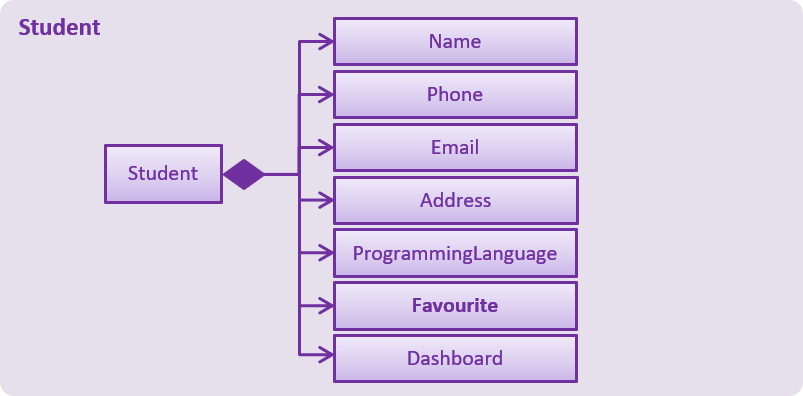
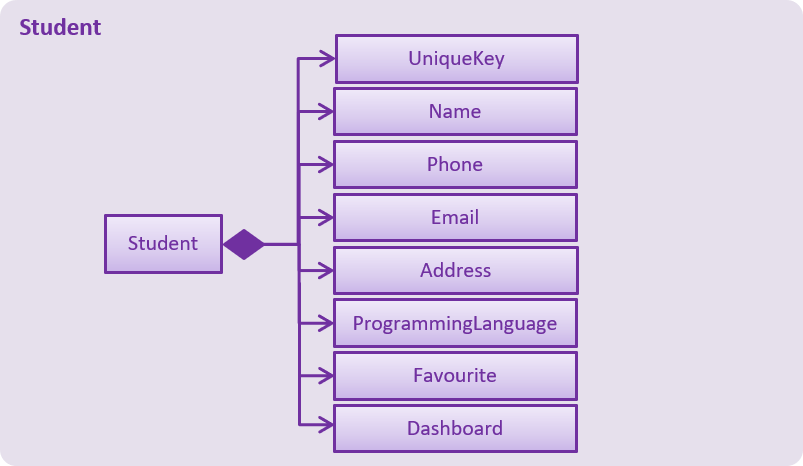
Rebuild pages at 1be7fd77ae190357ab070ccab8c4ad3ecd14ff4b

Changed region(s): [[0.1245, 0.0303, 0.7472, 0.9697], [0.0, 0.0303, 0.1245, 0.0909]]

diff --git a/DeveloperGuide.html b/DeveloperGuide.html
@@ -50,9 +50,10 @@
 <li><a href="#location-feature">3.4. Location feature</a></li>
 <li><a href="#programming-language-feature">3.5. Programming Language Feature</a></li>
 <li><a href="#schedule-feature">3.6. Schedule feature</a></li>
-<li><a href="#dashboard-feature">3.7. Dashboard feature</a></li>
-<li><a href="#logging">3.8. Logging</a></li>
-<li><a href="#Implementation-Configuration">3.9. Configuration</a></li>
+<li><a href="#google-service-integration">3.7. Google Service Integration</a></li>
+<li><a href="#dashboard-feature">3.8. Dashboard feature</a></li>
+<li><a href="#logging">3.9. Logging</a></li>
+<li><a href="#Implementation-Configuration">3.10. Configuration</a></li>
 </ul>
 </li>
 <li><a href="#documentation">4. Documentation</a>
@@ -1195,22 +1196,25 @@ a <code>Student</code> object with attributes including <code>ProgrammingLanguag
 </div>
 <div class="imageblock">
 <div class="content">
-<img src="images/ScheduleClassDiagram.png" alt="ScheduleClassDiagram" width="800">
+<img src="images/LessonClassDiagram.png" alt="LessonClassDiagram" width="800">
 </div>
 </div>
 <div class="paragraph">
-<p>A <code>Schedule</code> is a list of <code>Lessons</code>. A <code>Lesson</code> has a <code>Student</code> attribute, a <code>Day</code> attribute, a starting <code>TIME START_TIME</code> and an ending <code>TIME END_TIME</code> attribute</p>
+<p>A <code>Schedule</code> is a list of <code>Lessons</code>. A <code>Lesson</code> has a <code>UniqueKey</code> attribute, a <code>Day</code> attribute, a starting <code>TIME START_TIME</code> and an ending <code>TIME END_TIME</code> attribute</p>
 </div>
 <div class="ulist">
 <ul>
 <li>
-<p>A <code>Lesson</code> object called <code>newLesson</code> will be created by <code>ModelManager.addLesson(Student, Day, Time START_TIME, Time END_TIME)</code>, which is implemented as such:</p>
+<p>Students have a unique UniqueKey field, which we will now use in Lesson to create a relation to Student objects.</p>
+</li>
+<li>
+<p>A <code>Lesson</code> object called <code>newLesson</code> will be created by <code>ModelManager.addLesson(UniqueKey key, Day day, Time startTime, Time endTime)</code>, which is implemented as such:</p>
 </li>
 </ul>
 </div>
 <div class="listingblock">
 <div class="content">
-<pre>    public void addLesson(Student studentToAddLesson, Day day, Time startTime, Time endTime)
+<pre>    public void addLesson(UniqueKey key, Day day, Time startTime, Time endTime)
             throws DuplicateLessonException, StudentNotFoundException, InvalidLessonTimeSlotException {
         //Check for Duplicate Lesson, StudentNotFound, invalid input ime
 
@@ -1219,7 +1223,8 @@ a <code>Student</code> object with attributes including <code>ProgrammingLanguag
 </div>
 </div>
 <div class="paragraph">
-<p>The student will be selected by the Index of the last seen list of students. A new <code>Lesson</code> will now be added for that student at the specific <code>Day</code>, <code>START_TIME</code> and <code>END_TIME</code>.</p>
+<p>The student will be selected by the Index of the last seen list of students.
+The UniqueKey is retrieved from the Student. A new <code>Lesson</code> will now be added for that student at the specific <code>Day</code>, <code>startTime</code> and <code>endTime</code>, associated with the Student by the <code>key</code></p>
 </div>
 <div class="admonitionblock note">
 <table>
@@ -1272,9 +1277,53 @@ If you have a future implementation that requires the addition of a new attribut
 </div>
 </div>
 <div class="sect2">
-<h3 id="dashboard-feature"><a class="link" href="#dashboard-feature">3.7. Dashboard feature</a></h3>
+<h3 id="google-service-integration"><a class="link" href="#google-service-integration">3.7. Google Service Integration</a></h3>
+<div class="paragraph">
+<p>To sync with Google Contacts and Google Calendar, a <code>GServiceManager</code> class is implemented to handle the 2 services.
+<code>GServiceManager</code> contains a <code>GContactsService</code> and <code>GCalendarService</code> objects. <code>GServiceManager.synchronize</code> calls <code>GContactsService.synchronize</code> and
+<code>GCalendarService.synchronize</code></p>
+</div>
 <div class="sect3">
-<h4 id="current-implementation-6"><a class="link" href="#current-implementation-6">3.7.1. Current Implementation</a></h4>
+<h4 id="design-considerations-6"><a class="link" href="#design-considerations-6">3.7.1. Design Considerations</a></h4>
+<div class="sect4">
+<h5 id="aspect-implementation-of-code-gservicemanager-code"><a class="link" href="#aspect-implementation-of-code-gservicemanager-code">Aspect: Implementation of <code>GServiceManager</code></a></h5>
+<div class="ulist">
+<ul>
+<li>
+<p><strong>Alternative 1 (current choice)</strong>: Separate out 2 Google Services into two classes</p>
+<div class="ulist">
+<ul>
+<li>
+<p>Pro: Less coupling</p>
+</li>
+<li>
+<p>Con: More files and more code</p>
+</li>
+</ul>
+</div>
+</li>
+<li>
+<p><strong>Alternative 2</strong>: All services are in <code>GServiceManager</code> class. Synchronize runs the upload for both Contacts and Calendar classes.</p>
+<div class="ulist">
+<ul>
+<li>
+<p>Pro: Fewer files and code to read</p>
+</li>
+<li>
+<p>Con: More coupling</p>
+</li>
+</ul>
+</div>
+</li>
+</ul>
+</div>
+</div>
+</div>
+</div>
+<div class="sect2">
+<h3 id="dashboard-feature"><a class="link" href="#dashboard-feature">3.8. Dashboard feature</a></h3>
+<div class="sect3">
+<h4 id="current-implementation-6"><a class="link" href="#current-implementation-6">3.8.1. Current Implementation</a></h4>
 <div class="paragraph">
 <p>To have a dashboard for each student, an association with a new <code>Dashboard</code> class is added to the <code>Student</code> class. We have also created new classes associated with the <code>Dashboard</code> class to facilitate the different capabilities of the dashboard.
 The following diagram shows the structure of the classes that facilitate the dashboard feature:</p>
@@ -1352,7 +1401,7 @@ A common implementation for commands that modify the dashboard (e.g. <code>AddMi
 </div>
 </div>
 <div class="sect3">
-<h4 id="design-considerations-6"><a class="link" href="#design-considerations-6">3.7.2. Design Considerations</a></h4>
+<h4 id="design-considerations-7"><a class="link" href="#design-considerations-7">3.8.2. Design Considerations</a></h4>
 <div class="sect4">
 <h5 id="aspect-data-structure-to-support-the-dashboard-feature"><a class="link" href="#aspect-data-structure-to-support-the-dashboard-feature">Aspect: Data structure to support the dashboard feature</a></h5>
 <div class="ulist">
@@ -1389,14 +1438,14 @@ A common implementation for commands that modify the dashboard (e.g. <code>AddMi
 </div>
 </div>
 <div class="sect2">
-<h3 id="logging"><a class="link" href="#logging">3.8. Logging</a></h3>
+<h3 id="logging"><a class="link" href="#logging">3.9. Logging</a></h3>
 <div class="paragraph">
 <p>We are using <code>java.util.logging</code> package for logging. The <code>LogsCenter</code> class is used to manage the logging levels and logging destinations.</p>
 </div>
 <div class="ulist">
 <ul>
 <li>
-<p>The logging level can be controlled using the <code>logLevel</code> setting in the configuration file (See <a href="#Implementation-Configuration">Section 3.9, &#8220;Configuration&#8221;</a>)</p>
+<p>The logging level can be controlled using the <code>logLevel</code> setting in the configuration file (See <a href="#Implementation-Configuration">Section 3.10, &#8220;Configuration&#8221;</a>)</p>
 </li>
 <li>
 <p>The <code>Logger</code> for a class can be obtained using <code>LogsCenter.getLogger(Class)</code> which will log messages according to the specified logging level</p>
@@ -1427,7 +1476,7 @@ A common implementation for commands that modify the dashboard (e.g. <code>AddMi
 </div>
 </div>
 <div class="sect2">
-<h3 id="Implementation-Configuration"><a class="link" href="#Implementation-Configuration">3.9. Configuration</a></h3>
+<h3 id="Implementation-Configuration"><a class="link" href="#Implementation-Configuration">3.10. Configuration</a></h3>
 <div class="paragraph">
 <p>Certain properties of the application can be controlled (e.g App name, logging level) through the configuration file (default: <code>config.json</code>).</p>
 </div>
@@ -3078,7 +3127,7 @@ Expected: Similar to previous.</p>
 </div>
 <div id="footer">
 <div id="footer-text">
-Last updated 2018-04-06 04:30:51 UTC
+Last updated 2018-04-06 05:39:56 UTC
 </div>
 </div>
 </body>

diff --git a/UserGuide.html b/UserGuide.html
@@ -52,10 +52,11 @@
 <li><a href="#undoing-previous-command-code-undo-code">3.22. Undoing previous command : <code>undo</code></a></li>
 <li><a href="#redoing-the-previously-undone-command-code-redo-code">3.23. Redoing the previously undone command : <code>redo</code></a></li>
 <li><a href="#clearing-all-entries-code-clear-code">3.24. Clearing all entries : <code>clear</code></a></li>
-<li><a href="#exiting-the-program-code-exit-code">3.25. Exiting the program : <code>exit</code></a></li>
-<li><a href="#saving-the-data">3.26. Saving the data</a></li>
-<li><a href="#encrypting-data-files-code-coming-in-v2-0-code">3.27. Encrypting data files <code>[coming in v2.0]</code></a></li>
-<li><a href="#track-student-s-homework-in-the-dashboard-code-coming-in-v2-0-code">3.28. Track student&#8217;s homework in the dashboard <code>[coming in v2.0]</code></a></li>
+<li><a href="#syncing-with-your-google-account">3.25. Syncing with your Google Account</a></li>
+<li><a href="#exiting-the-program-code-exit-code">3.26. Exiting the program : <code>exit</code></a></li>
+<li><a href="#saving-the-data">3.27. Saving the data</a></li>
+<li><a href="#encrypting-data-files-code-coming-in-v2-0-code">3.28. Encrypting data files <code>[coming in v2.0]</code></a></li>
+<li><a href="#track-student-s-homework-in-the-dashboard-code-coming-in-v2-0-code">3.29. Track student&#8217;s homework in the dashboard <code>[coming in v2.0]</code></a></li>
 </ul>
 </li>
 <li><a href="#faq">4. FAQ</a></li>
@@ -1087,27 +1088,100 @@ Format: <code>clear</code></p>
 </div>
 </div>
 <div class="sect2">
-<h3 id="exiting-the-program-code-exit-code"><a class="link" href="#exiting-the-program-code-exit-code">3.25. Exiting the program : <code>exit</code></a></h3>
+<h3 id="syncing-with-your-google-account"><a class="link" href="#syncing-with-your-google-account">3.25. Syncing with your Google Account</a></h3>
+<div class="paragraph">
+<p>Syncs your Schedule and AddressBook and uploads them to your Google Account.
+AddressBook is synced with Google Contacts: <a href="https://contacts.google.com/"><code>contacts.google.com</code></a>.
+Schedule is synced with Google Calendar: <a href="https://calendar.google.com/calendar/r/week"><code>calendar.google.com</code></a></p>
+</div>
+<div class="sect3">
+<h4 id="logging-in-to-your-google-account"><a class="link" href="#logging-in-to-your-google-account">3.25.1. Logging in to your Google Account</a></h4>
+<div class="paragraph">
+<p>Logs in to your Google Account. Authorizes your Google Account to communicate with our app and gives
+Codeducator permission to modify your data.<br>
+Opens a new window in your default browser to the Oauth2 screen<br></p>
+</div>
+<div class="admonitionblock note">
+<table>
+<tr>
+<td class="icon">
+<i class="fa icon-note" title="Note"></i>
+</td>
+<td class="content">
+You must be first logged out to log in
+</td>
+</tr>
+</table>
+</div>
+<div class="paragraph">
+<p>Format: <code>login</code></p>
+</div>
+</div>
+<div class="sect3">
+<h4 id="logging-out-of-your-google-account"><a class="link" href="#logging-out-of-your-google-account">3.25.2. Logging out of your Google Account</a></h4>
+<div class="paragraph">
+<p>Logs out of your Google Account. Securely deletes the OAuth2 credential stored in the App.<br></p>
+</div>
+<div class="admonitionblock note">
+<table>
+<tr>
+<td class="icon">
+<i class="fa icon-note" title="Note"></i>
+</td>
+<td class="content">
+You must be first logged in to log out
+</td>
+</tr>
+</table>
+</div>
+<div class="paragraph">
+<p>Format: <code>logout</code></p>
+</div>
+</div>
+<div class="sect3">
+<h4 id="syncing-data-with-your-google-account"><a class="link" href="#syncing-data-with-your-google-account">3.25.3. Syncing data with your Google Account</a></h4>
+<div class="paragraph">
+<p>Updates both Google Contacts and Google Calendar with Addressbook and Schedule.<br></p>
+</div>
+<div class="admonitionblock note">
+<table>
+<tr>
+<td class="icon">
+<i class="fa icon-note" title="Note"></i>
+</td>
+<td class="content">
+You must be first logged in to sync your data
+</td>
+</tr>
+</table>
+</div>
+<div class="paragraph">
+<p>Format: <code>sync</code></p>
+</div>
+</div>
+</div>
+<div class="sect2">
+<h3 id="exiting-the-program-code-exit-code"><a class="link" href="#exiting-the-program-code-exit-code">3.26. Exiting the program : <code>exit</code></a></h3>
 <div class="paragraph">
 <p>Exits the program.<br>
 Format: <code>exit</code></p>
 </div>
 </div>
 <div class="sect2">
-<h3 id="saving-the-data"><a class="link" href="#saving-the-data">3.26. Saving the data</a></h3>
+<h3 id="saving-the-data"><a class="link" href="#saving-the-data">3.27. Saving the data</a></h3>
 <div class="paragraph">
 <p>Address book data are saved in the hard disk automatically after any command that changes the data.<br>
 There is no need to save manually.</p>
 </div>
 </div>
 <div class="sect2">
-<h3 id="encrypting-data-files-code-coming-in-v2-0-code"><a class="link" href="#encrypting-data-files-code-coming-in-v2-0-code">3.27. Encrypting data files <code>[coming in v2.0]</code></a></h3>
+<h3 id="encrypting-data-files-code-coming-in-v2-0-code"><a class="link" href="#encrypting-data-files-code-coming-in-v2-0-code">3.28. Encrypting data files <code>[coming in v2.0]</code></a></h3>
 <div class="paragraph">
 <p><em>{explain how the user can enable/disable data encryption}</em></p>
 </div>
 </div>
 <div class="sect2">
-<h3 id="track-student-s-homework-in-the-dashboard-code-coming-in-v2-0-code"><a class="link" href="#track-student-s-homework-in-the-dashboard-code-coming-in-v2-0-code">3.28. Track student&#8217;s homework in the dashboard <code>[coming in v2.0]</code></a></h3>
+<h3 id="track-student-s-homework-in-the-dashboard-code-coming-in-v2-0-code"><a class="link" href="#track-student-s-homework-in-the-dashboard-code-coming-in-v2-0-code">3.29. Track student&#8217;s homework in the dashboard <code>[coming in v2.0]</code></a></h3>
 
 </div>
 </div>
@@ -1171,7 +1245,7 @@ e.g.<code>select 2</code></p>
 </div>
 <div id="footer">
 <div id="footer-text">
-Last updated 2018-04-06 04:30:51 UTC
+Last updated 2018-04-06 05:39:56 UTC
 </div>
 </div>
 </body>

diff --git a/LearningOutcomes.html b/LearningOutcomes.html
@@ -561,7 +561,7 @@ class gives some examples of how to use <em>Equivalence Partitions</em>, <em>Bou
 </div>
 <div id="footer">
 <div id="footer-text">
-Last updated 2018-04-06 04:30:51 UTC
+Last updated 2018-04-06 05:39:56 UTC
 </div>
 </div>
 </body>

diff --git a/UsingCoveralls.html b/UsingCoveralls.html
@@ -115,7 +115,7 @@ If you have not set up Travis CI, see <a href="UsingTravis.html">UsingTravis.ado
 </div>
 <div id="footer">
 <div id="footer-text">
-Last updated 2018-04-06 04:30:51 UTC
+Last updated 2018-04-06 05:39:56 UTC
 </div>
 </div>
 </body>

diff --git a/UsingGradle.html b/UsingGradle.html
@@ -261,7 +261,7 @@ See <code>build.gradle</code> &#8594; <code>allprojects</code> &#8594; <code>dep
 </div>
 <div id="footer">
 <div id="footer-text">
-Last updated 2018-04-06 04:30:51 UTC
+Last updated 2018-04-06 05:39:56 UTC
 </div>
 </div>
 </body>

diff --git a/UsingNetlify.html b/UsingNetlify.html
@@ -142,7 +142,7 @@ The publish directory is the directory in which the built HTML documentation res
 </div>
 <div id="footer">
 <div id="footer-text">
-Last updated 2018-04-06 04:30:51 UTC
+Last updated 2018-04-06 05:39:56 UTC
 </div>
 </div>
 </body>

diff --git a/team/johndoe.html b/team/johndoe.html
@@ -561,7 +561,7 @@ If the <code>redoStack</code> is empty, then there are no other commands left to
 </div>
 <div id="footer">
 <div id="footer-text">
-Last updated 2018-04-06 04:30:51 UTC
+Last updated 2018-04-06 05:39:56 UTC
 </div>
 </div>
 </body>

diff --git a/UsingTravis.html b/UsingTravis.html
@@ -299,7 +299,7 @@ Suggested change: Remove the codacy badge from <code>README</code>.</p>
 </div>
 <div id="footer">
 <div id="footer-text">
-Last updated 2018-04-06 04:30:51 UTC
+Last updated 2018-04-06 05:39:56 UTC
 </div>
 </div>
 </body>

diff --git a/UsingCheckstyle.html b/UsingCheckstyle.html
@@ -103,7 +103,7 @@ Restart the IDE to complete the installation.</p>
 </div>
 <div id="footer">
 <div id="footer-text">
-Last updated 2018-04-06 04:30:51 UTC
+Last updated 2018-04-06 05:39:56 UTC
 </div>
 </div>
 </body>

diff --git a/TestDocument.html b/TestDocument.html
@@ -178,7 +178,7 @@ This should be on a new line.</p>
 </div>
 <div id="footer">
 <div id="footer-text">
-Last updated 2018-04-06 04:30:51 UTC
+Last updated 2018-04-06 05:39:56 UTC
 </div>
 </div>
 </body>

diff --git a/UsingAppVeyor.html b/UsingAppVeyor.html
@@ -174,7 +174,7 @@ grant access:</p>
 </div>
 <div id="footer">
 <div id="footer-text">
-Last updated 2018-04-06 04:30:51 UTC
+Last updated 2018-04-06 05:39:56 UTC
 </div>
 </div>
 </body>

diff --git a/AboutUs.html b/AboutUs.html
@@ -93,7 +93,7 @@
 </div>
 <div id="footer">
 <div id="footer-text">
-Last updated 2018-04-06 04:30:51 UTC
+Last updated 2018-04-06 05:39:56 UTC
 </div>
 </div>
 </body>
